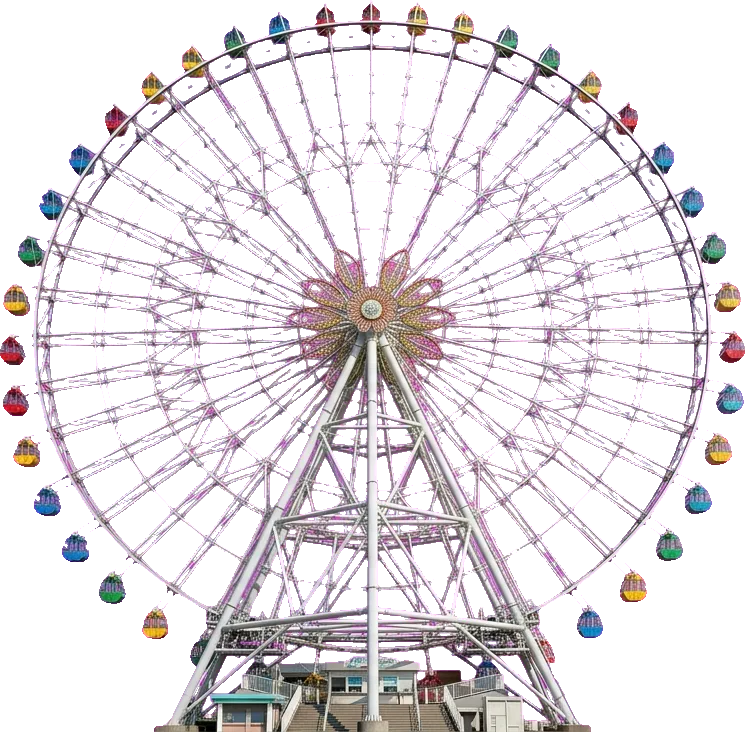
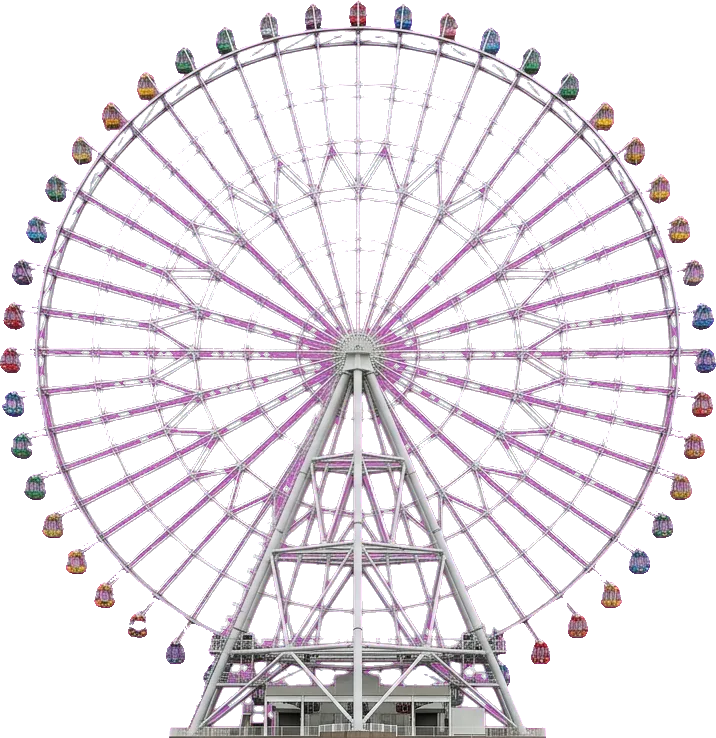
Add Umeda Sky Building, red Roomy and 16-car Shinkansen to size comparison
Also redraw the Kasai ferris wheel as a flat front view.

diff --git a/games/size-compare/index.html b/games/size-compare/index.html
@@ -220,6 +220,9 @@ const ITEMS = [
     shapes:['M3 40L3 22Q3 17 9 17L20 16L25 4Q26 0 32 0L84 0Q92 0 94 6L97 18Q100 20 100 26L100 40Z',
             [HI, 'M30 4L57 4L57 16L25 16Z'], [HI, 'M61 4L84 4Q89 4 90 8L93 16L61 16Z'],
             ['#222', E(22,40,10)], ['#222', E(80,40,10)], ['#ccc', E(22,40,4)], ['#ccc', E(80,40,4)]] },
+  { name:'トヨタ ルーミー', kname:'トヨタ ルーミー', en:'TOYOTA ROOMY', size:3.7, dim:'w', real:[3.7,1.735], vb:[100,47], color:'#c8302a',
+    memo:'全長3,700mm × 全高1,735mm。うしろはスライドドア。', kmemo:'ながさ 3メートル70センチの くるま。',
+    shapes:[R(2,4,96,36), ['#222', E(20,40,7)], ['#222', E(80,40,7)]] },
   { name:'キリン', kname:'キリン', en:'GIRAFFE', size:5.00, dim:'h', vb:[70,100], color:'#e0a43a',
     memo:'地上で最も背の高い動物。', kmemo:'せが いちばん たかい どうぶつ。',
     shapes:[E(28,52,22,11), 'M38 50L55 9L64 13L51 53Z', E(62,9,7,5), 'M62 5L70 9L68 14L59 13Z',
@@ -245,8 +248,8 @@ const ITEMS = [
     memo:'地球史上最大の動物。全長約25m。', kmemo:'ちきゅうで いちばん おおきい どうぶつ。',
     shapes:['M0 8L6 4L10 8Q20 6 40 4Q70 0 90 4Q100 7 99 12Q96 18 80 19Q50 22 20 16L10 12L6 18L0 14L4 11Z',
             'M64 16L56 22L71 18Z', [HI, 'M70 15Q85 18 97 13Q96 17 80 19Q72 19 70 15Z'], ['#111', E(86,10,0.8)]] },
-  { name:'新幹線 N700A 先頭車', kname:'しんかんせん N700A', en:'SHINKANSEN N700A', size:27.35, dim:'w', real:[27.35,3.6], vb:[100,15], color:'#f3f5f8',
-    memo:'東海道・山陽新幹線。先頭車の全長27.35m。', kmemo:'いちばん まえの 1りょうの ながさだよ。',
+  { name:'新幹線 N700A 16両', kname:'しんかんせん N700A 16りょう', en:'SHINKANSEN N700A (16 CARS)', size:404.7, dim:'w', real:[404.7,3.6], vb:[100,15], color:'#f3f5f8', train:16, fitW:4,
+    memo:'東海道・山陽新幹線。16両つなぐと全長404.7m（先頭車27.35m×2＋中間車25m×14）。', kmemo:'16りょう つなげた ながさ。やく 400メートル も あるよ。',
     shapes:['M0 1L58 1Q80 1 92 6Q100 10 100 12.5L100 13L0 13Z', ['#1d4fa0', R(0,9,97,1.6)],
             ['#25324a', R(4,4,52,2.2)], ['#25324a', 'M66 3Q76 3 82 6L70 6Z'], ['#333', R(0,13,100,1.2)],
             ['#333', E(12,14,1.2)], ['#333', E(20,14,1.2)], ['#333', E(78,14,1.2)], ['#333', E(86,14,1.2)]] },
@@ -308,19 +311,41 @@ const ITEMS = [
   { name:'ブルジュ・ハリファ', kname:'ブルジュ・ハリファ', en:'BURJ KHALIFA', size:828, dim:'h', vb:[20,100], color:'#9fb3c8',
     memo:'ドバイにある世界一高いビル。高さ828m。', kmemo:'せかいで いちばん たかい ビル。スカイツリーより たかいよ。',
     shapes:[P([[0,100],[20,100],[18,70],[16,45],[13,25],[11,10],[10.3,0],[9.7,0],[9,10],[7,25],[4,45],[2,70]])] },
+  { name:'梅田スカイビル 空中庭園', kname:'うめだスカイビルの くうちゅうていえん', en:'UMEDA SKY BUILDING', size:173, dim:'h', vb:[100,100], color:'#8fa6bd',
+    memo:'大阪・梅田。2つのビルを てっぺんの「空中庭園展望台」がつなぐ。高さ173m。', kmemo:'おおさかに ある ビル。2つの ビルの うえが つながって いるよ。たかさ 173メートル。',
+    shapes:[R(10,8,30,92), R(60,8,30,92), R(10,0,80,22)] },
 ];
 
 const USER = { name:'あなた', kname:'きみ', en:'YOU', dim:'h', vb:[40,100], color:'#ff8a3d', shapes:personShapes(), isUser:true };
 
 // 写真っぽい画像（images/*.webp）。読みこめたら形の絵のかわりに使う
-const IMG_KEYS = ['hamster','cat','rabbit','shiba','penguin','adult','vending','bear','elephant','freed','giraffe',
-  'trex','nara_daibutsu','torii','whale','shinkansen','himeji','toji','jumbo','ushiku','harukas','tokyotower','skytree','fuji','mirai','skybus','ferris','h3','pyramid','everest','burj'];
+const IMG_KEYS = ['hamster','cat','rabbit','shiba','penguin','adult','vending','bear','elephant','freed','roomy','giraffe',
+  'trex','nara_daibutsu','torii','whale','shinkansen','himeji','toji','jumbo','ushiku','harukas','tokyotower','skytree','fuji','mirai','skybus','ferris','h3','pyramid','everest','burj','umeda'];
 ITEMS.forEach((it, i) => it.img = IMG_KEYS[i]);
 USER.img = 'kid';
 const kidLook = {};
+
+// 先頭車（右むき）と中間車の絵をつないで 1本の列車にする。うしろの先頭車は左右反転
+function trainImage(head, mid, cars) {
+  const ph = 120, pxPerM = ph / 3.6 * 0.6;
+  const hw = Math.round(27.35 * pxPerM), mw = Math.round(25 * pxPerM);
+  const c = document.createElement('canvas');
+  c.width = hw * 2 + mw * (cars - 2); c.height = ph;
+  const g = c.getContext('2d');
+  g.save(); g.translate(hw, 0); g.scale(-1, 1); g.drawImage(head, 0, 0, hw, ph); g.restore();
+  for (let k = 0; k < cars - 2; k++) g.drawImage(mid, hw + mw * k, 0, mw, ph);
+  g.drawImage(head, c.width - hw, 0, hw, ph);
+  return c;
+}
 const imagesReady = Promise.all([...ITEMS, USER].map(it => new Promise(done => {
   const im = new Image();
-  im.onload = () => { it.image = im; it.vb = [im.naturalWidth, im.naturalHeight]; done(); };
+  im.onload = () => {
+    if (!it.train) { it.image = im; it.vb = [im.naturalWidth, im.naturalHeight]; done(); return; }
+    const mid = new Image();
+    mid.onload = () => { it.image = trainImage(im, mid, it.train); it.vb = [it.image.width, it.image.height]; done(); };
+    mid.onerror = () => done();
+    mid.src = `images/${it.img}_mid.webp`;
+  };
   im.onerror = () => done();
   im.src = `images/${it.img}.webp`;
 }))).then(() => { kidLook.image = USER.image; kidLook.vb = USER.vb; });

diff --git a/games/size-compare/sw.js b/games/size-compare/sw.js
@@ -1,7 +1,7 @@
 // 一度ひらけば オフラインでも あそべるように ファイルを ためておく
-const CACHE = 'size-compare-v4';
+const CACHE = 'size-compare-v7';
 const FILES = ['./', './index.html', './manifest.json', './icon-192.png', './icon-512.png',
-  './images/adult.webp','./images/bear.webp','./images/cat.webp','./images/elephant.webp','./images/ferris.webp','./images/freed.webp','./images/fuji.webp','./images/giraffe.webp','./images/hamster.webp','./images/h3.webp','./images/harukas.webp','./images/himeji.webp','./images/jumbo.webp','./images/kid.webp','./images/mirai.webp','./images/nara_daibutsu.webp','./images/penguin.webp','./images/rabbit.webp','./images/shiba.webp','./images/shinkansen.webp','./images/skybus.webp','./images/skytree.webp','./images/toji.webp','./images/tokyotower.webp','./images/torii.webp','./images/trex.webp','./images/ushiku.webp','./images/vending.webp','./images/whale.webp','./images/pyramid.webp','./images/everest.webp','./images/burj.webp'];
+  './images/adult.webp','./images/bear.webp','./images/cat.webp','./images/elephant.webp','./images/ferris.webp','./images/freed.webp','./images/fuji.webp','./images/giraffe.webp','./images/hamster.webp','./images/h3.webp','./images/harukas.webp','./images/himeji.webp','./images/jumbo.webp','./images/kid.webp','./images/mirai.webp','./images/nara_daibutsu.webp','./images/penguin.webp','./images/rabbit.webp','./images/shiba.webp','./images/shinkansen.webp','./images/skybus.webp','./images/skytree.webp','./images/toji.webp','./images/tokyotower.webp','./images/torii.webp','./images/trex.webp','./images/ushiku.webp','./images/vending.webp','./images/whale.webp','./images/pyramid.webp','./images/everest.webp','./images/burj.webp','./images/umeda.webp','./images/shinkansen_mid.webp','./images/roomy.webp'];
 self.addEventListener('install', e => e.waitUntil(caches.open(CACHE).then(c => c.addAll(FILES))));
 self.addEventListener('activate', e => e.waitUntil(
   caches.keys().then(ks => Promise.all(ks.filter(k => k !== CACHE).map(k => caches.delete(k))))));

diff --git a/generate_size_images.py b/generate_size_images.py
@@ -26,6 +26,7 @@ STYLE = (
     "Background: one completely flat solid pure magenta color (#FF00FF) filling everything behind the subject. "
     "No ground, no floor, no shadow, no scenery, no other objects, no text, no watermark."
 )
+FLAT = " Viewed from very far away at the height of its middle, straight-on flat front elevation, no perspective distortion, not looking up from below."
 SIDE = " Seen exactly from the side (profile view), facing right."
 
 images = {
@@ -39,17 +40,19 @@ images = {
     "mirai": "Chubu Electric Power MIRAI TOWER (former Nagoya TV Tower) in Nagoya, the steel lattice tower with its four legs, observation decks and antenna, seen from the front, complete tower from base to top.",
     "skybus": "The red open-top double-decker sightseeing bus SKY BUS TOKYO, with the upper deck open air, no text on the body." + SIDE,
     "h3": "The JAXA H3 rocket standing upright on its launch pad base, white body with orange-brown first stage insulation, two solid rocket boosters, seen from the side, complete rocket from bottom to nose tip, no launch tower, no text.",
-    "ferris": "The Diamond and Flower Ferris Wheel at Kasai Rinkai Park in Tokyo, a giant white ferris wheel with colorful gondolas and its support legs, seen from the front, complete wheel including the base.",
+    "ferris": "The Diamond and Flower Ferris Wheel at Kasai Rinkai Park in Tokyo, a giant white ferris wheel with colorful gondolas and its support legs, seen from the front, complete wheel including the base." + FLAT,
     "vending": "A typical Japanese drink vending machine with rows of colorful drink bottles behind glass, seen from the front.",
     "bear": "A large brown bear (Ussuri brown bear) standing up on its hind legs, facing the viewer, full body.",
     "elephant": "An African elephant with tusks standing on all four legs." + SIDE,
     "freed": "A white Honda Freed compact minivan (third generation, 2024 model), no license plate text." + SIDE,
+    "roomy": "A red Toyota Roomy compact tall-wagon (2020 facelift model) with sliding rear doors, no license plate text." + SIDE,
     "giraffe": "A giraffe standing with its long neck straight up, full body including legs." + SIDE,
     "trex": "A realistic Tyrannosaurus rex dinosaur walking, full body from head to tip of tail, horizontal posture." + SIDE,
     "nara_daibutsu": "The Great Buddha of Todai-ji in Nara, a huge bronze seated Buddha statue on a lotus pedestal with a golden halo behind it, seen from the front, full statue.",
     "torii": "The Great Torii gate of Itsukushima Shrine (Miyajima), large vermilion red wooden torii with its supporting side pillars, seen from the front, complete gate including the bottom of the pillars.",
     "whale": "A blue whale swimming, full body from head to tail flukes." + SIDE,
     "shinkansen": "The lead car of a JR Central N700A Shinkansen bullet train (Tokaido Shinkansen), white with a blue stripe, long aerodouble-wing nose, one single car only including bogies and wheels, no rails, no track." + SIDE,
+    "shinkansen_mid": "One single intermediate passenger car of a JR Central N700A Shinkansen bullet train (Tokaido Shinkansen), white with a blue stripe below the windows, a long straight box-shaped car with flat vertical ends on both left and right (no nose), a row of small passenger windows, including bogies and wheels, no pantograph, no rails, no track." + SIDE,
     "himeji": "Himeji Castle in Japan, the white main keep tower on its stone wall base, seen from the front, complete building.",
     "toji": "The five-story pagoda of Toji temple in Kyoto, dark wooden pagoda with its tall spire, seen from the front, complete building.",
     "jumbo": "A Boeing 787-9 Dreamliner airliner parked with landing gear down, plain white livery with no airline logo or text, raked wingtips, chevron engine nacelles." + SIDE,
@@ -60,6 +63,7 @@ images = {
     "pyramid": "The Great Pyramid of Giza (Pyramid of Khufu) in Egypt, sandy limestone stepped surface with no smooth casing stones left anywhere (not the Khafre pyramid), flat-ish top, seen from the front, complete pyramid from base to the top, no sphinx, no other pyramids.",
     "everest": "Mount Everest, the rocky Himalayan peak with snow and ice, sharp summit pyramid, clear sky with no clouds or snow plume, complete mountain from the wide base to the summit, wide shape.",
     "burj": "Burj Khalifa skyscraper in Dubai, very tall slender silver glass tower with stepped setbacks and a long spire, seen from the front, complete building from base to spire tip, very tall and thin.",
+    "umeda": "The Umeda Sky Building in Osaka, two tall slender glass skyscraper towers standing side by side, connected at the very top by the Floating Garden Observatory with its big circular opening, seen from the front, complete building from base to top." + FLAT,
     "fuji": "Mount Fuji,the symmetrical volcano with a snow-capped peak and blue-purple slopes, complete mountain from the wide base to the summit, wide shape.",
 }
 

diff --git a/process_size_images.py b/process_size_images.py
@@ -14,7 +14,9 @@ OUT = os.path.join(BASE, "images")
 MAX_SIDE = 900
 EDGE = 3  # 境目からこのpx以内は 背景色の混ざりを取りのぞく
 CROP_BOTTOM = {"h3": 0.135}  # 発射台など、大きさに入れない下の部分（割合）
-SPILL_ALL = {"freed", "jumbo", "shinkansen", "skybus"}  # 窓ごしに背景が写る絵は 全体のにじみを消す
+KEEP_INSIDE = {"roomy"}  # 窓の中は穴をあけず、外とつながる背景だけ消す
+FLIP = {"roomy"}  # 左むきに できた絵は 右むきに なおす
+SPILL_ALL = {"freed", "roomy", "jumbo", "shinkansen", "shinkansen_mid", "skybus"}  # 窓ごしに背景が写る絵は 全体のにじみを消す
 
 
 def process(name):
@@ -34,7 +36,8 @@ def process(name):
     border = np.unique(np.concatenate([lab[0], lab[-1], lab[:, 0], lab[:, -1]]))
     bg = np.isin(lab, border[border > 0])
     # しっぽの輪の中など、とじこめられた背景色も消す
-    bg |= (dist < 20) | (m > 90)
+    if name not in KEEP_INSIDE:
+        bg |= (dist < 20) | (m > 90)
 
     # 境目は「背景色がどれだけ混ざっているか」から透明度を出し、背景色を差し引いて色を戻す
     m_bg = max(60.0, float(np.median(np.concatenate([m[0], m[-1], m[:, 0], m[:, -1]]))))
@@ -59,6 +62,8 @@ def process(name):
     if name in CROP_BOTTOM:
         im = im.crop((0, 0, im.width, round(im.height * (1 - CROP_BOTTOM[name]))))
         im = im.crop(im.getchannel("A").point(lambda v: 255 if v > 64 else 0).getbbox())
+    if name in FLIP:
+        im = im.transpose(Image.FLIP_LEFT_RIGHT)
     w, h = im.size
     k = MAX_SIDE / max(w, h)
     if k < 1:
